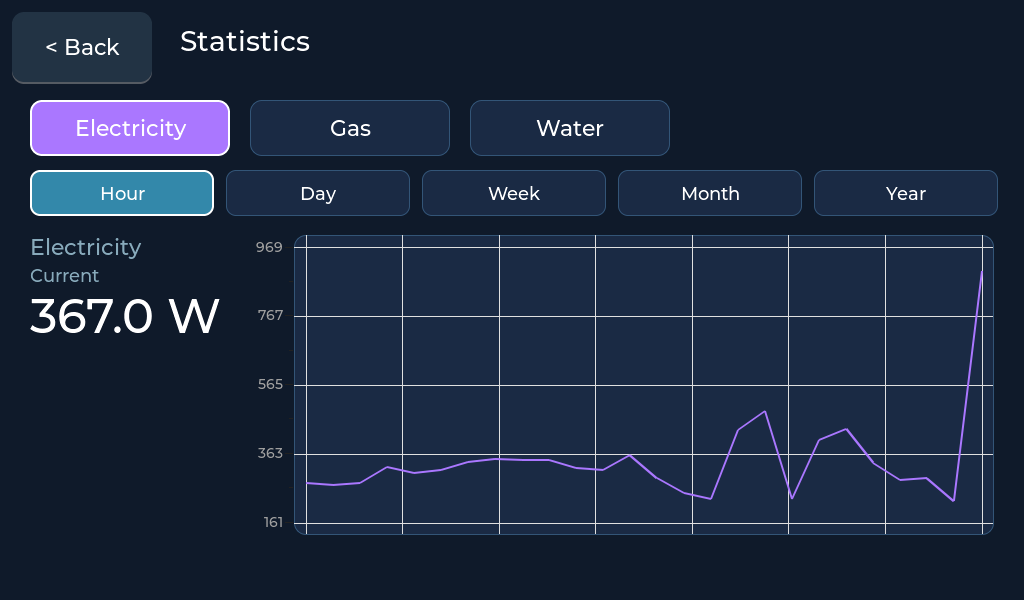
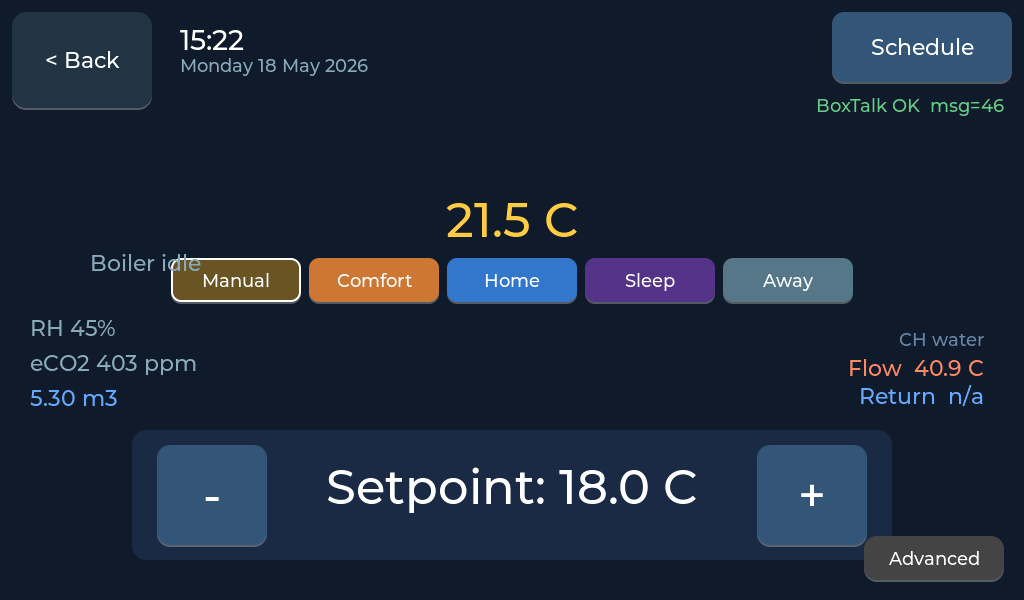
Heater detail program buttons, buienradar scrollable text, graphs X labels
screen_thermostat:
  Five-button program row (Manual / Comfort / Home / Sleep / Away) sits
  right under the indoor temperature, colours mirror the schedule
  editor pills. Tapping a button calls boxtalk_set_program or
  boxtalk_set_manual. Active one gets a white outline keyed on
  active_state (manual when <0) or program_state, refreshed every tick.

screen_forecast:
  Body text was LV_LABEL_LONG_DOT inside a fixed 540x340 region,
  which ate everything past the first ~12 lines with an ellipsis.
  Wrap it in a vertically-scrollable lv_obj so the whole
  weatherreport is readable.

screen_stats:
  Added X-axis tick labels via the chart's DRAW_PART hook. The Y
  ticks already showed numeric values; X tick spots had marks but no
  text. The hook reads from series.labels[] (RRD timestamps) and
  emits "HH:MM" for hour/day, "DD-MM" for longer periods.

diff --git a/lvgl_ui_recovered/src/screen_stats.c b/lvgl_ui_recovered/src/screen_stats.c
@@ -51,6 +51,54 @@ static stats_series_t  series2;   /* for elec second tariff */
 
 static void on_back(lv_event_t * e) { (void)e; ui_pop(); }
 
+/* X-axis label override. LVGL hands us each tick value (0..major_cnt-1).
+ * We translate to a period-appropriate string (clock time for hour/day,
+ * date for week+). Without this hook the X axis shows bare indices. */
+static int g_xtick_compact_count = 0;
+static void chart_draw_x_label(lv_event_t * e) {
+    lv_obj_draw_part_dsc_t * dsc = lv_event_get_draw_part_dsc(e);
+    if (!dsc) return;
+    /* In LVGL 8.3, chart's tick-label draw events for the X axis arrive
+     * with dsc->text != NULL and a non-zero text_length; identify the X
+     * axis by dsc->id. Don't require dsc->part — its value differs
+     * between versions and adding the check silently dropped every
+     * label. */
+    if (dsc->text == NULL || dsc->text_length < 4) return;
+    if (dsc->id != LV_CHART_AXIS_PRIMARY_X) return;
+    /* dsc->value is the tick ordinal (0..major-1). Map to a sample index
+     * in the compacted series and copy that sample's short label. */
+    if (g_xtick_compact_count <= 0 || series.n <= 0) {
+        dsc->text[0] = 0; return;
+    }
+    /* Find the Nth real (non-NaN) sample. */
+    int target_ord = dsc->value;   /* 0 = leftmost tick */
+    int major_minus1 = 4;           /* matches the (5,0) tick spec below */
+    if (target_ord < 0) target_ord = 0;
+    if (target_ord > major_minus1) target_ord = major_minus1;
+    int wanted_real_idx = target_ord * (g_xtick_compact_count - 1) / major_minus1;
+    int real_seen = 0;
+    for (int i = 0; i < series.n; i++) {
+        if (isnan(series.samples[i])) continue;
+        if (real_seen == wanted_real_idx) {
+            /* labels[i] is "DD-MM HH:MM"; for hour/day show "HH:MM", for
+             * longer periods show "DD-MM". */
+            const char * lab = series.labels[i];
+            if (selected_period == PERIOD_HOUR || selected_period == PERIOD_DAY) {
+                if (strlen(lab) >= 11) {
+                    /* skip the "DD-MM " prefix */
+                    snprintf(dsc->text, dsc->text_length, "%s", lab + 6);
+                } else snprintf(dsc->text, dsc->text_length, "%s", lab);
+            } else {
+                /* take just "DD-MM" */
+                snprintf(dsc->text, dsc->text_length, "%.5s", lab);
+            }
+            return;
+        }
+        real_seen++;
+    }
+    dsc->text[0] = 0;
+}
+
 /* Per-period: which logger + rra to use, and whether to diff-aggregate.
    Returns 0 if loaded. */
 static int load_for_period(void) {
@@ -152,6 +200,7 @@ static void render_chart(void) {
     if (cn < 2) cn = 2;
 
     lv_chart_set_point_count(chart, cn);
+    g_xtick_compact_count = cn;       /* used by chart_draw_x_label */
     lv_chart_set_range(chart, LV_CHART_AXIS_PRIMARY_Y,
                        (lv_coord_t)(lo - pad), (lv_coord_t)(hi + pad));
     for (int i = 0; i < cn; i++) {
@@ -313,6 +362,11 @@ lv_obj_t * screen_stats_create(void) {
     /* Y axis tick labels — 5 major divisions, 2 minor in between, draw_size
      * 60 reserves the space LVGL needs for the rendered numbers. */
     lv_chart_set_axis_tick(chart, LV_CHART_AXIS_PRIMARY_Y, 8, 4, 5, 2, true, 60);
+    /* X axis tick labels via the chart's DRAW_PART hook so we can write
+     * the compact time-of-sample strings ("11:00", "Mon", …) the period
+     * tab implies, instead of the bare index integers LVGL would print. */
+    lv_chart_set_axis_tick(chart, LV_CHART_AXIS_PRIMARY_X, 8, 4, 5, 0, true, 30);
+    lv_obj_add_event_cb(chart, chart_draw_x_label, LV_EVENT_DRAW_PART_BEGIN, NULL);
     lv_obj_set_style_bg_color(chart, lv_color_hex(0x1a2a44), 0);
     lv_obj_set_style_border_color(chart, lv_color_hex(0x335577), 0);
     lv_obj_set_style_border_width(chart, 1, 0);

diff --git a/lvgl_ui_recovered/src/screen_thermostat.c b/lvgl_ui_recovered/src/screen_thermostat.c
@@ -29,12 +29,23 @@ static lv_obj_t * img_temp_flame;
 static lv_obj_t * lbl_clock;
 static lv_obj_t * lbl_date;
 static lv_timer_t * refresh_timer = NULL;
+/* Program preset buttons (Manual / Comfort / Home / Sleep / Away) just
+ * below the indoor temp — same actions as the home-tile lacks. The active
+ * one gets a white outline mirroring the vent-tile highlight pattern. */
+static lv_obj_t * btn_prog[5] = {0};
+static const int  prog_state[5] = {-1, 0, 1, 2, 3};   /* manual, C, H, S, A */
 
 static void on_open_advanced(lv_event_t * e) { (void)e; ui_push(screen_heater_advanced_create()); }
 static void on_setpoint_up(lv_event_t * e) { boxtalk_setpoint_increase(); }
 static void on_setpoint_down(lv_event_t * e) { boxtalk_setpoint_decrease(); }
 static void on_back(lv_event_t * e) { ui_pop(); }
 static void on_open_schedule(lv_event_t * e) { (void)e; ui_push(screen_schedule_create()); }
+static void on_program_tap(lv_event_t * e) {
+    int idx = (int)(intptr_t)lv_event_get_user_data(e);
+    int s = prog_state[idx];
+    if (s < 0) boxtalk_set_manual();
+    else       boxtalk_set_program(s);
+}
 
 static void refresh_cb(lv_timer_t * t) {
     (void)t;
@@ -58,6 +69,16 @@ static void refresh_cb(lv_timer_t * t) {
 
     if (toon_state.indoor_temp > 0)
         lv_label_set_text_fmt(lbl_temp, "%.1f C", display_indoor_temp(toon_state.indoor_temp));
+
+    /* Program-preset highlight: white border on the active one. Manual
+     * wins when active_state < 0 regardless of program_state. */
+    int active_idx = (toon_state.active_state < 0) ? 0 : toon_state.program_state + 1;
+    if (active_idx < 0 || active_idx > 4) active_idx = 0;
+    for (int i = 0; i < 5; i++) {
+        if (btn_prog[i])
+            lv_obj_set_style_border_width(btn_prog[i],
+                                          (i == active_idx) ? 2 : 0, 0);
+    }
     if (toon_state.humidity > 0)
         lv_label_set_text_fmt(lbl_humidity, "RH %.0f%%", toon_state.humidity);
     if (toon_state.eco2 || toon_state.tvoc)
@@ -203,6 +224,35 @@ lv_obj_t * screen_thermostat_create(void) {
     lv_obj_set_style_img_recolor_opa(img_temp_flame, 255, 0);
     lv_obj_align(img_temp_flame, LV_ALIGN_CENTER, 145, -75);
     lv_obj_add_flag(img_temp_flame, LV_OBJ_FLAG_HIDDEN);
+
+    /* Program preset row — five small buttons centered horizontally just
+     * below the indoor temp. Manual matches active_state < 0; the other
+     * four send boxtalk_set_program(0..3). Colours mirror the schedule
+     * editor pills for instant recognition. */
+    {
+        const char * names[5] = {"Manual", "Comfort", "Home", "Sleep", "Away"};
+        uint32_t     cols[5]  = {0x6a5424, 0xcc7733, 0x3377cc, 0x553388, 0x557788};
+        const int    bw = 130, bh = 44, gap = 8;
+        int total = 5 * bw + 4 * gap;
+        for (int i = 0; i < 5; i++) {
+            lv_obj_t * b = lv_btn_create(scr_root);
+            lv_obj_set_size(b, bw, bh);
+            lv_obj_align(b, LV_ALIGN_CENTER,
+                         -total / 2 + i * (bw + gap) + bw / 2, -20);
+            lv_obj_set_style_bg_color(b, lv_color_hex(cols[i]), 0);
+            lv_obj_set_style_radius(b, 10, 0);
+            lv_obj_set_style_border_color(b, lv_color_hex(0xffffff), 0);
+            lv_obj_set_style_border_width(b, 0, 0);
+            lv_obj_add_event_cb(b, on_program_tap, LV_EVENT_CLICKED,
+                                (void *)(intptr_t)i);
+            lv_obj_t * bl = lv_label_create(b);
+            lv_label_set_text(bl, names[i]);
+            lv_obj_set_style_text_color(bl, lv_color_hex(0xffffff), 0);
+            lv_obj_set_style_text_font(bl, &lv_font_montserrat_18, 0);
+            lv_obj_center(bl);
+            btn_prog[i] = b;
+        }
+    }
 
     /* Environment readings live in the left column just above the
        setpoint row, where "Boiler idle" used to sit. Boiler state has

diff --git a/lvgl_ui_recovered/src/screen_forecast.c b/lvgl_ui_recovered/src/screen_forecast.c
@@ -181,14 +181,22 @@ lv_obj_t * screen_forecast_create(void) {
     lv_obj_align(lbl_title, LV_ALIGN_TOP_LEFT, 440, 100);
     lv_label_set_text(lbl_title, "Weersverwachting");
 
-    /* Body text — wrapped + clipped at 340 px tall so it doesn't run
-       over the 5-day strip at the bottom. */
-    lbl_body = lv_label_create(scr_root);
+    /* Body text — wrap inside a vertically-scrollable container so the
+     * full weather report is readable. Previously the LONG_DOT mode
+     * truncated everything past ~340 px tall with an ellipsis. */
+    lv_obj_t * body_scroll = lv_obj_create(scr_root);
+    lv_obj_set_size(body_scroll, 560, 340);
+    lv_obj_align(body_scroll, LV_ALIGN_TOP_LEFT, 440, 150);
+    lv_obj_set_style_bg_opa(body_scroll, LV_OPA_TRANSP, 0);
+    lv_obj_set_style_border_width(body_scroll, 0, 0);
+    lv_obj_set_style_pad_all(body_scroll, 0, 0);
+    lv_obj_set_scroll_dir(body_scroll, LV_DIR_VER);
+    lv_obj_set_scrollbar_mode(body_scroll, LV_SCROLLBAR_MODE_AUTO);
+    lbl_body = lv_label_create(body_scroll);
     lv_obj_set_style_text_color(lbl_body, lv_color_hex(0xbbbbbb), 0);
     lv_obj_set_style_text_font(lbl_body, &lv_font_montserrat_18, 0);
-    lv_obj_set_size(lbl_body, 540, 340);
-    lv_label_set_long_mode(lbl_body, LV_LABEL_LONG_DOT);
-    lv_obj_align(lbl_body, LV_ALIGN_TOP_LEFT, 440, 150);
+    lv_obj_set_width(lbl_body, 540);
+    lv_label_set_long_mode(lbl_body, LV_LABEL_LONG_WRAP);
     lv_label_set_text(lbl_body, "(laden...)");
 
     /* 5-day forecast strip — same column anatomy as the home band: day